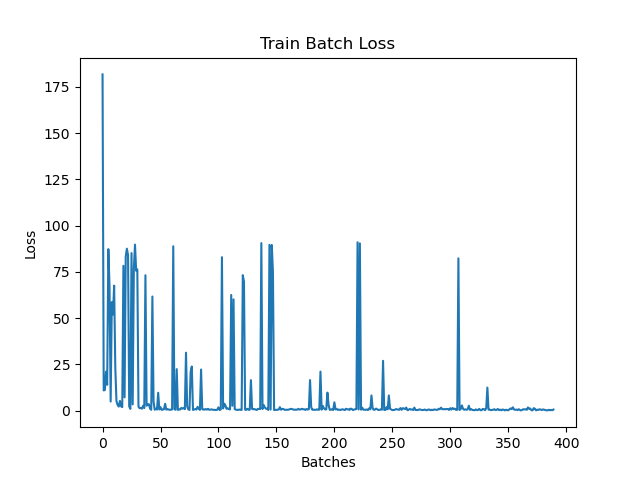
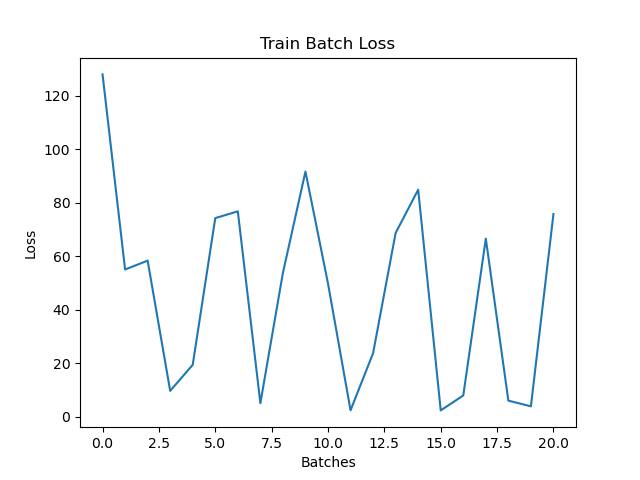
fix overlapping epoch batch loss plots

diff --git a/train_custom.py b/train_custom.py
@@ -103,7 +103,7 @@ class Trainer:
                 val_total_loss += val_batch_loss.item() 
                 val_losses_batch.append(val_batch_loss.item()) 
         
-            avg_train_loss = train_total_loss / len(self.train_loader) 
+            avg_train_loss = train_total_loss / len(self.train_loader)
             print(f"epoch loss: {avg_train_loss}")
             train_losses.append(avg_train_loss)
 
@@ -112,27 +112,28 @@ class Trainer:
             val_losses.append(avg_val_loss)
 
 
-        
+        plt.figure()
         plt.plot(train_losses_batch)
         plt.xlabel("Batches")
         plt.ylabel("Loss")
         plt.title("Train Batch Loss")
         plt.savefig(self.output_dir + '/batch_loss_train.png')
-
-        
+  
+        plt.figure()
         plt.plot(val_losses_batch)
         plt.xlabel("Batches")
         plt.ylabel("Loss")
         plt.title("Val Batch Loss")
         plt.savefig(self.output_dir + '/batch_loss_val.png')
 
+        plt.figure()
         plt.plot(train_losses)
         plt.xlabel("epoch")
         plt.ylabel("Loss")
         plt.title("Train epoch Loss")
         plt.savefig(self.output_dir + '/epoch_loss_train.png')
 
-        
+        plt.figure()
         plt.plot(val_losses)
         plt.xlabel("epoch")
         plt.ylabel("Loss")
@@ -169,7 +170,7 @@ def train_main():
     loss = nn.CrossEntropyLoss()
     optimizer = optim.Adam(model.parameters(), lr=learning_rate, weight_decay=weight_decay)
 
-    train_dataset = CustomDataset(train_file_pkl)
+    train_dataset = CustomDataset(train_file_pkl, max_datapoints=100)
     train_loader = DataLoader(train_dataset, batch_size=batch_size, shuffle=True)
 
     val_dataset = CustomDataset(val_file_pkl)
